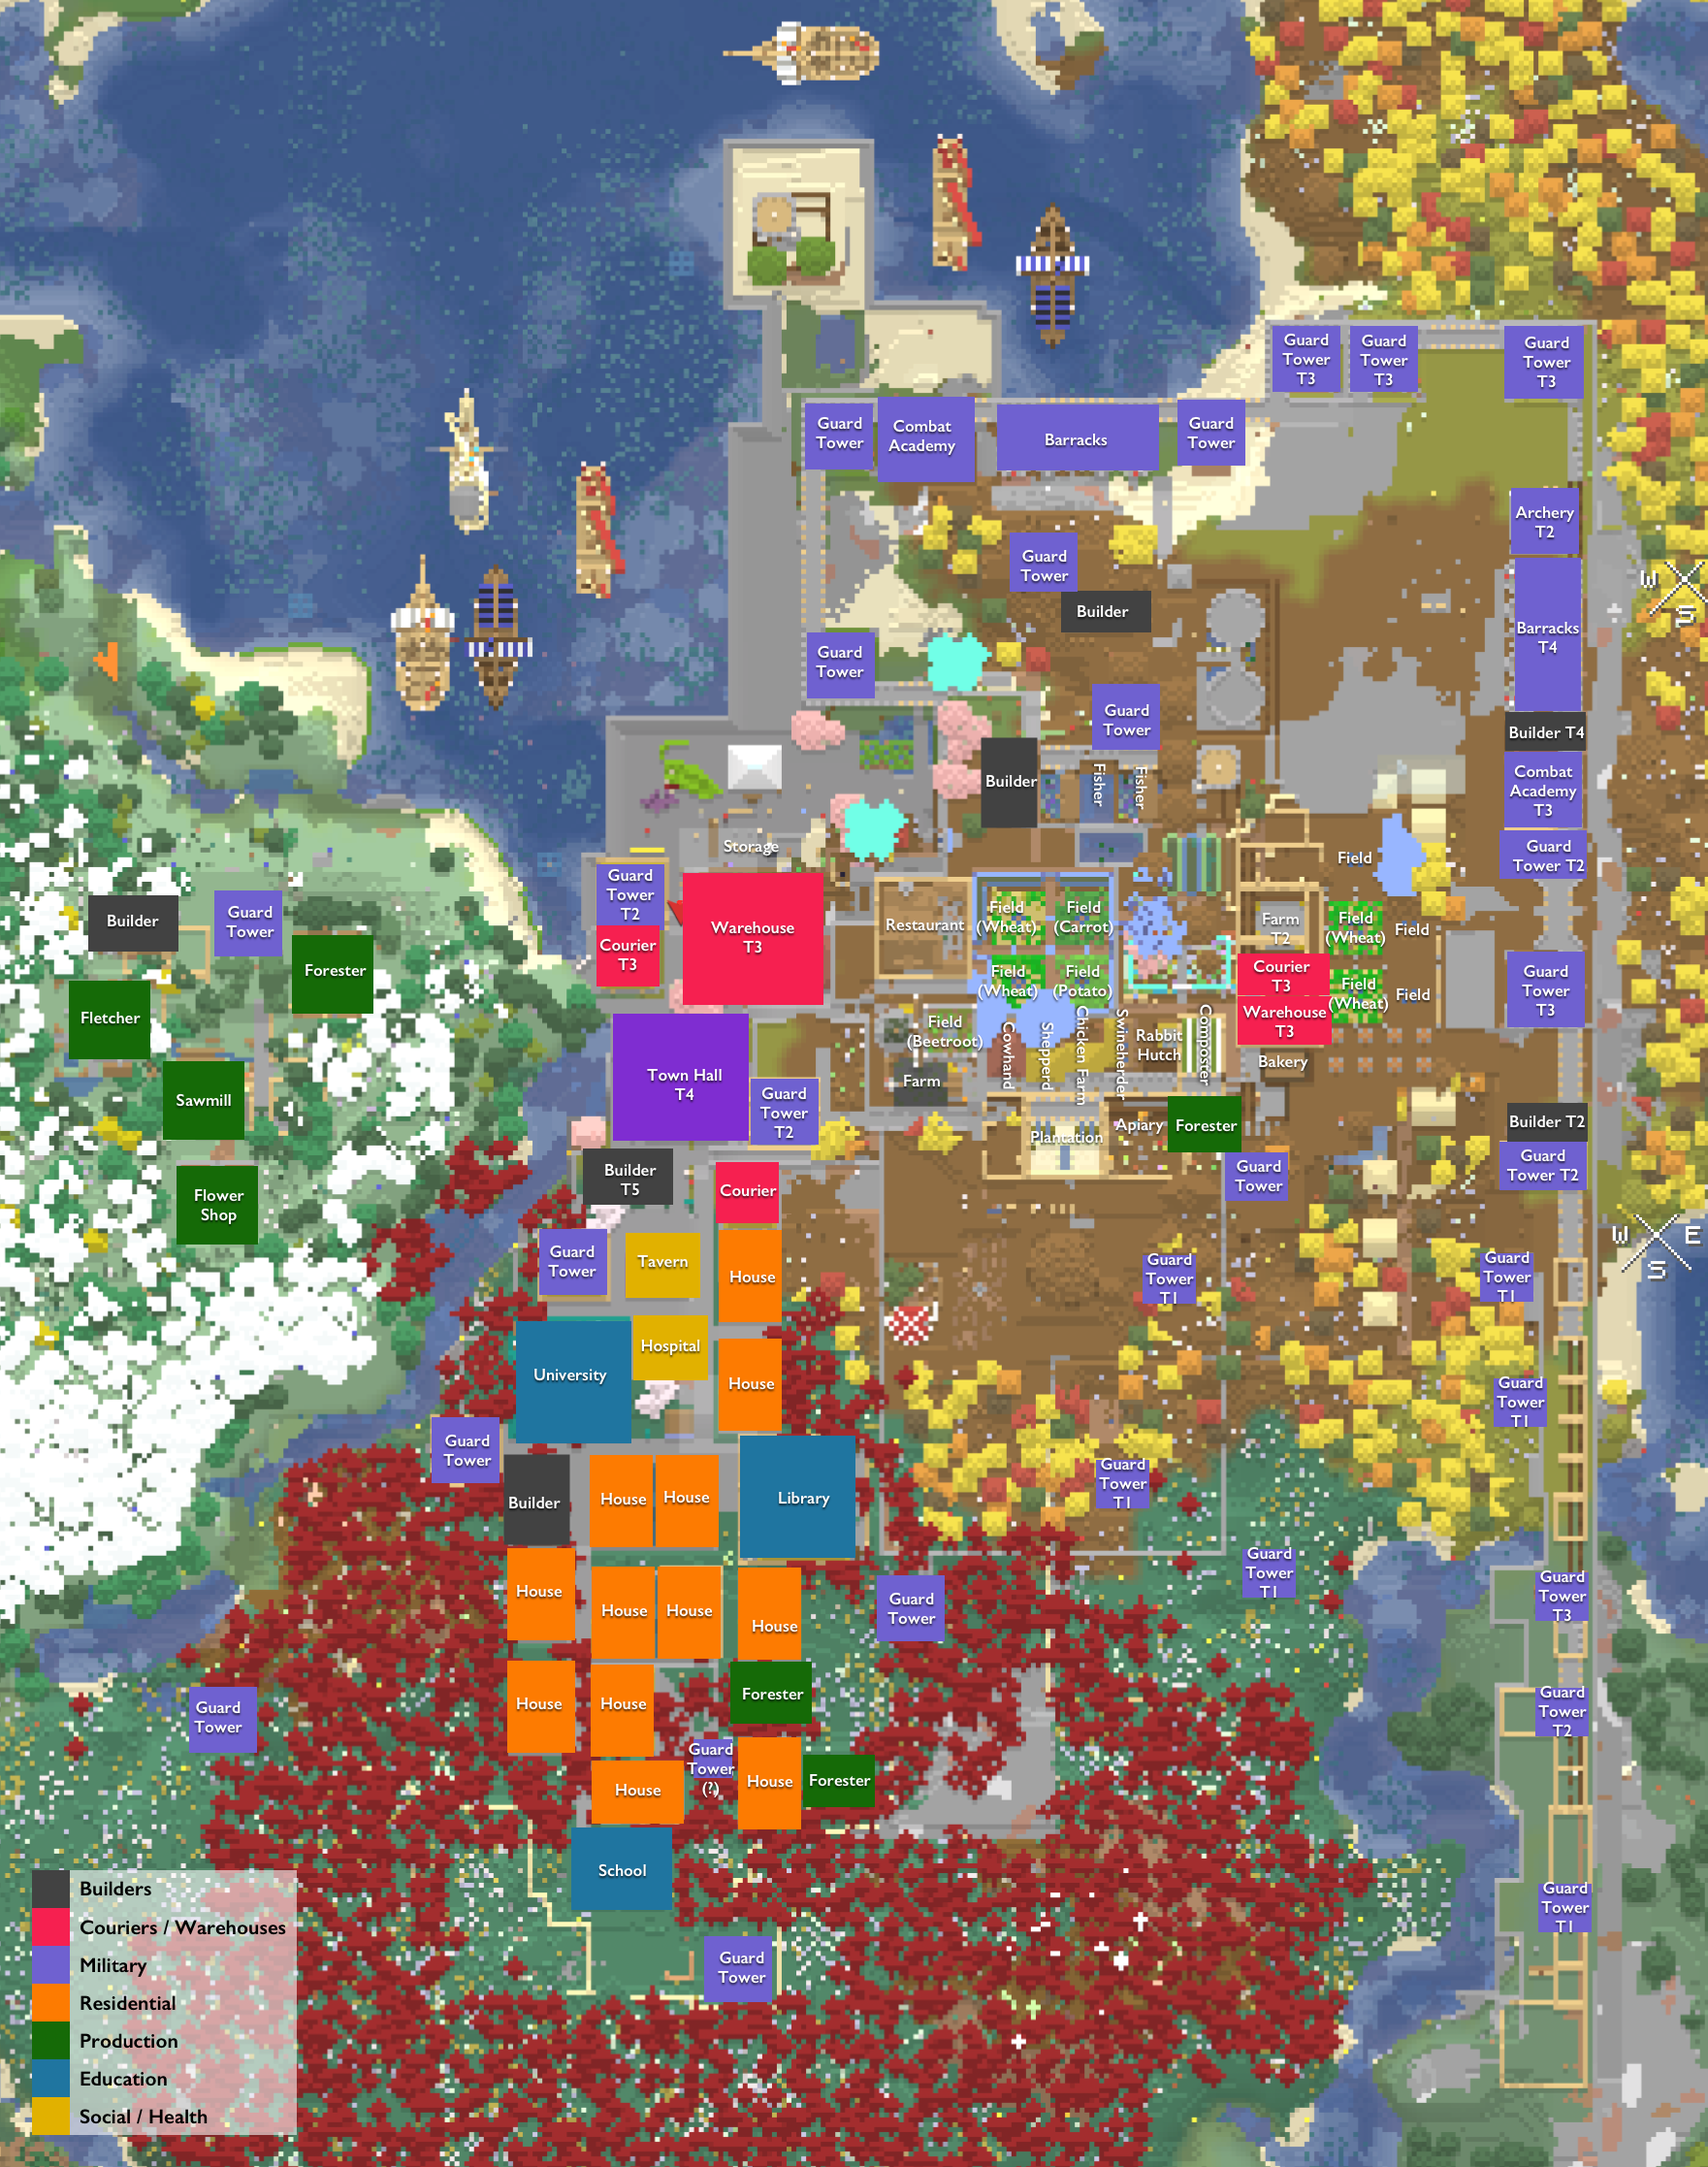
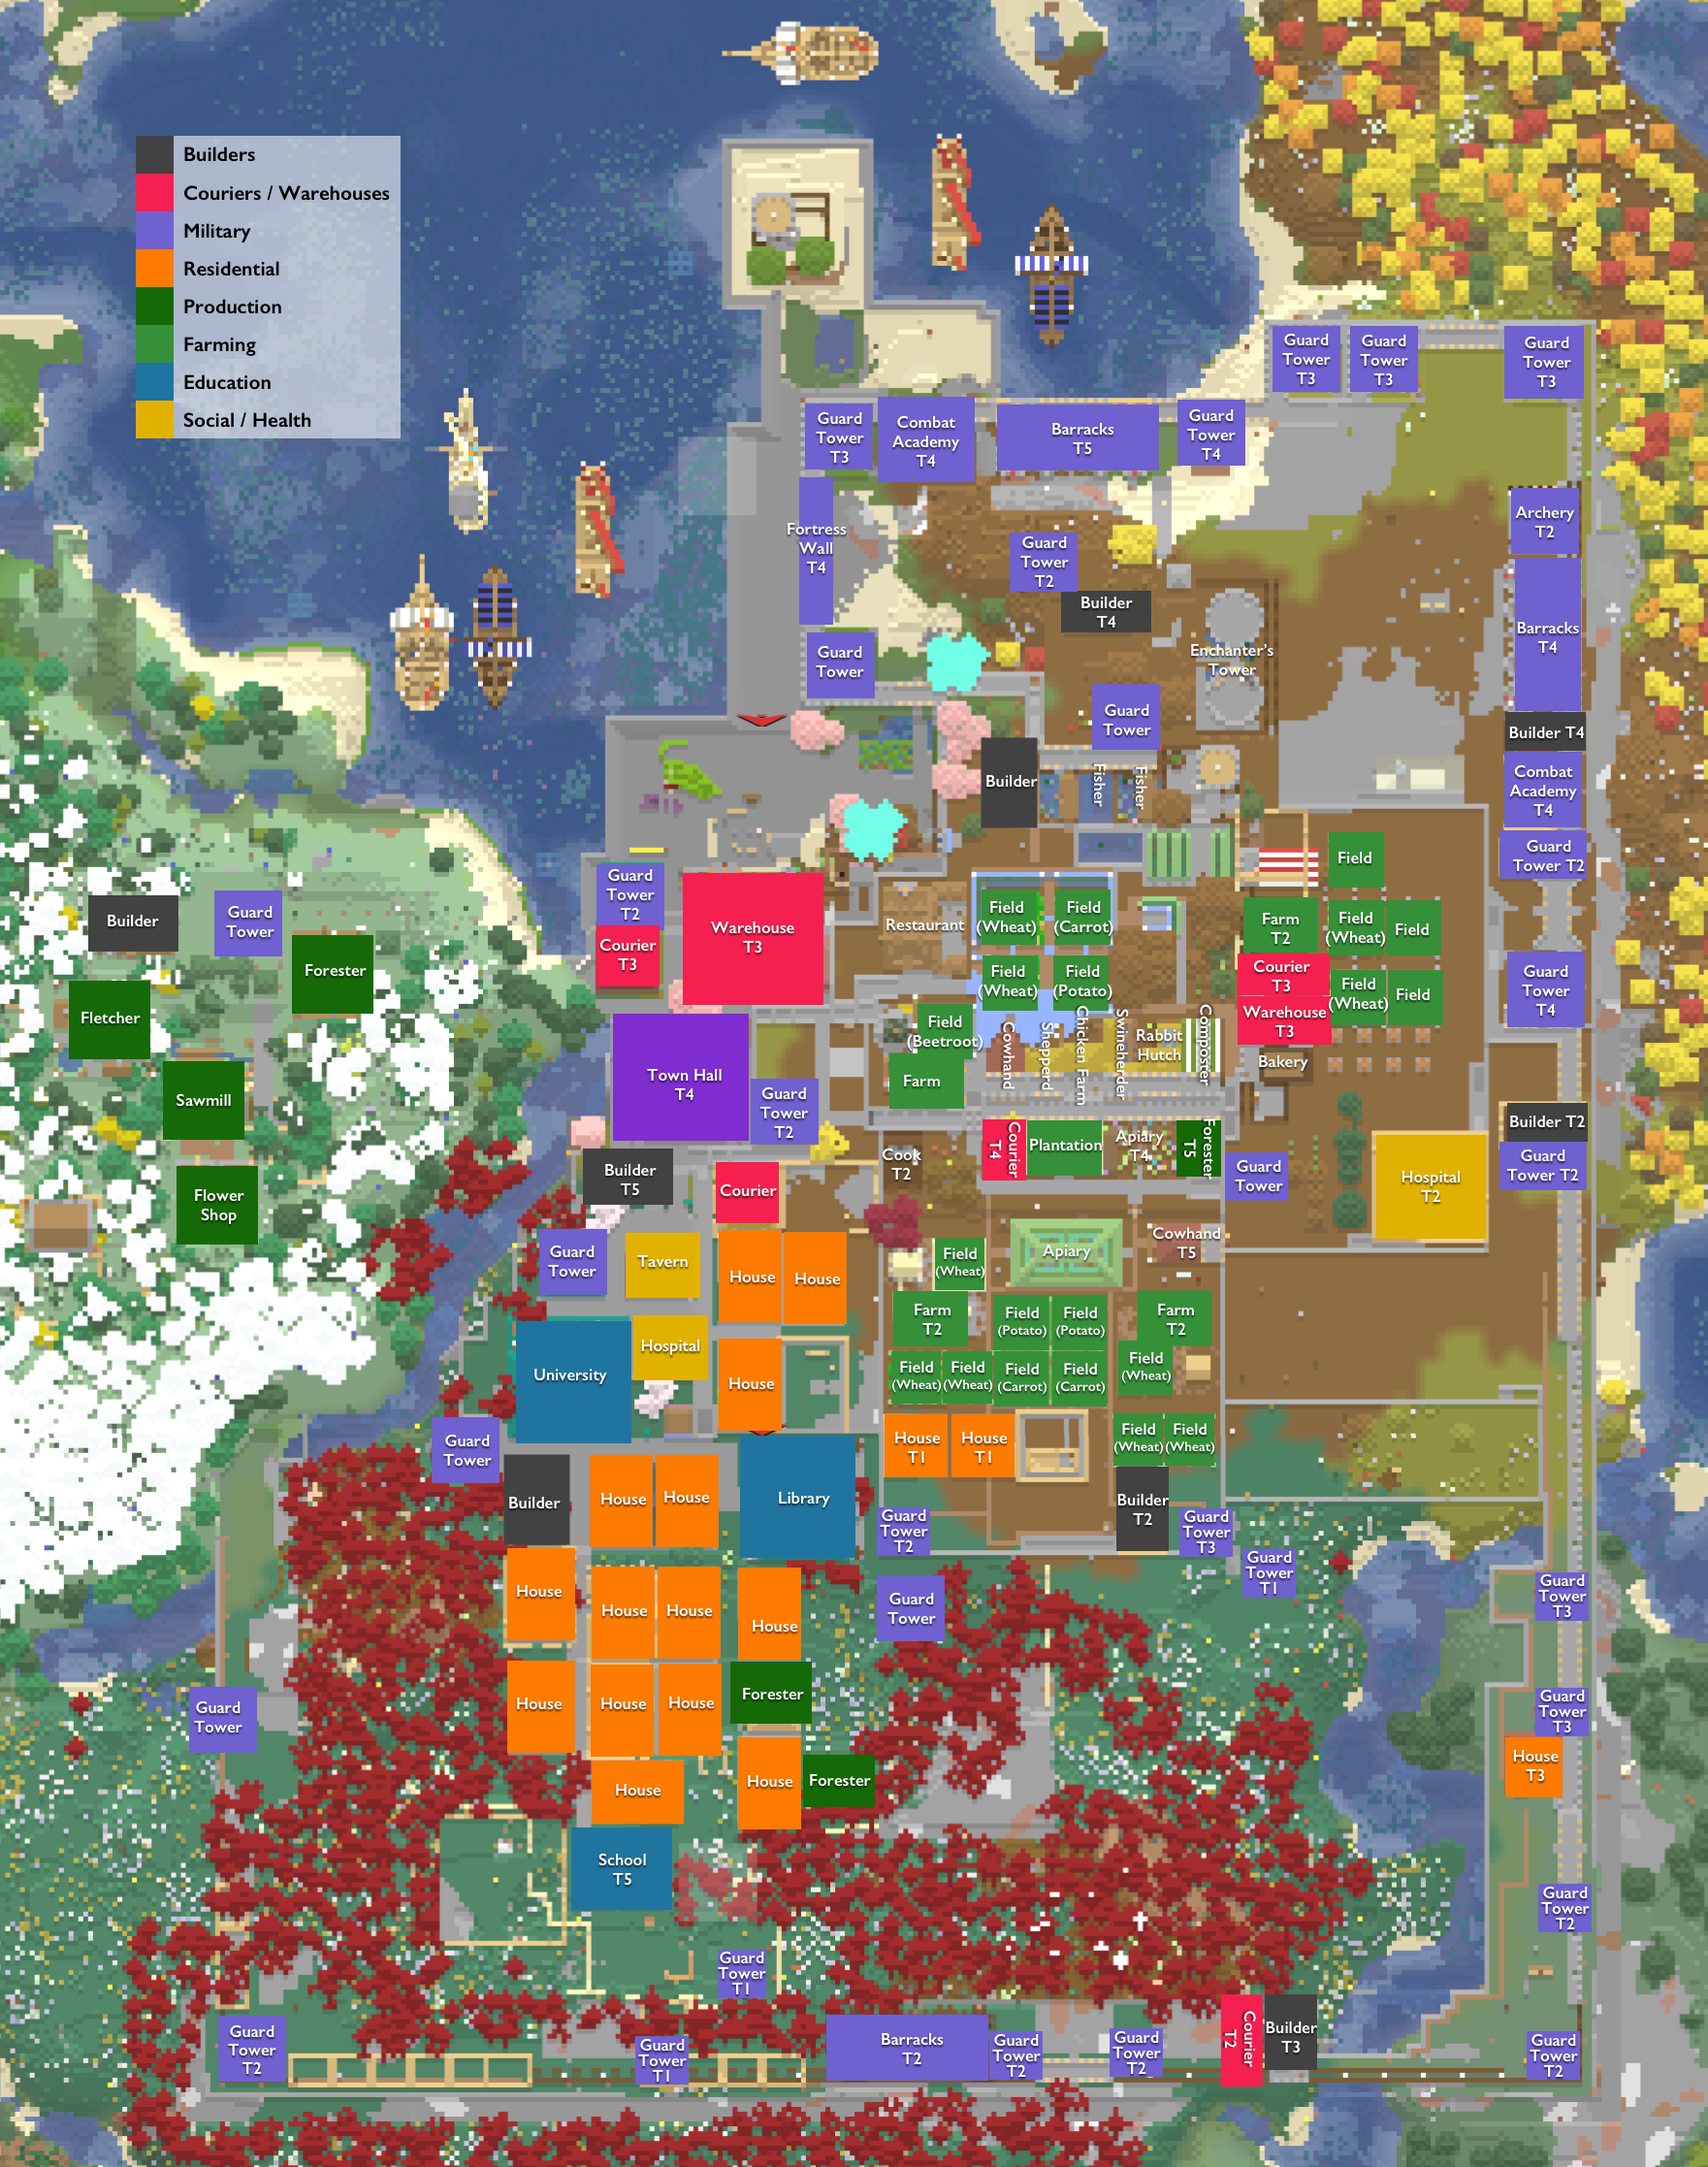
colony map v1.4

diff --git a/index.html b/index.html
@@ -11,6 +11,6 @@
     <a href="./underground.html" class="link">Underground</a>
     <h1>Colony</h1>
     <img src="colonymap.png" alt="">
-    <small>v1.3</small>
+    <small>v1.4</small>
 </body>
 </html>
